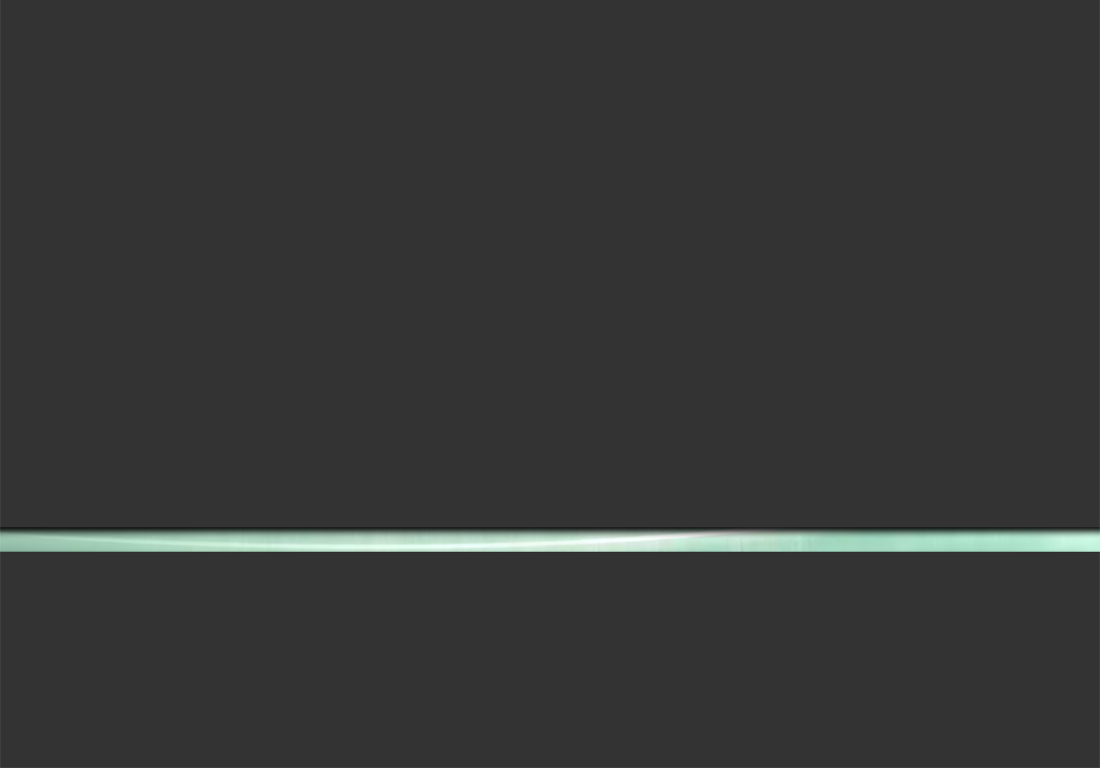
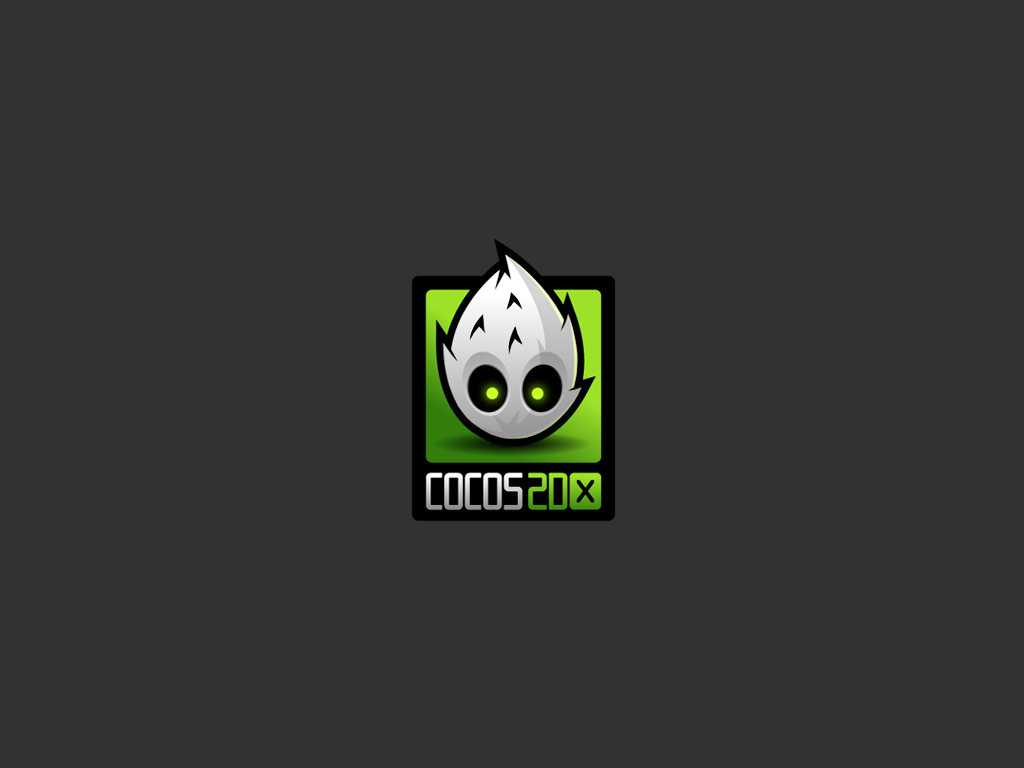
Edit loading screen

Changed region(s): [[0.0, 0.3125, 1.0, 0.7188]]

diff --git a/cocos2d/core/CCLoader.js b/cocos2d/core/CCLoader.js
@@ -261,9 +261,10 @@ cc.Loader = cc.Class.extend(/** @lends cc.Loader# */{
     },
 
     _updatePercent: function () {
-        var percent = this.getPercentage();
+        //var percent = this.getPercentage();
 
-        if (percent >= 100) {
+        //if (percent >= 100) {
+        if( _fakePercent >=100 ) {
             this._unschedulePreload();
             this._complete();
         }
@@ -420,8 +421,7 @@ cc.LoaderScene = cc.Scene.extend(/** @lends cc.LoaderScene# */{
 
         //logo
         var logoWidth = 225;
-        var logoHeight = 584;
-        var gameScale = 0.5;
+        var logoHeight = 292;
         var centerPos = cc.p(this._winSize.width / 2, this._winSize.height / 2);
 
         this._logoTexture = new Image();
@@ -432,29 +432,50 @@ cc.LoaderScene = cc.Scene.extend(/** @lends cc.LoaderScene# */{
         });
[1 lines of base64/hex data omitted]
         this._logoTexture.src = "images/loadingBG.png";
-        this._logoTexture.width = 1025;
+        this._logoTexture.width = 1024;
         this._logoTexture.height = 768;        // bg
-        this._bgLayer = cc.LayerColor.create(cc.c4(230, 230, 230, 255));
+        this._bgLayer = cc.LayerColor.create(cc.c4(255, 255, 255, 255));
         this._bgLayer.setPosition(0, 0);
-        this.addChild(this._bgLayer, 0);
+        this.addChild(this._bgLayer, 10);
         //loading
-        this._loadingGauge = new ImageShow( "loadingGauge.png" );
-        this._loadingGauge.setScaleX( 0 );
-        this._loadingGauge.setAnchorPoint( 0,0.5 );
-        this._loadingGauge.setPosition(cc.pAdd(centerPos, cc.p(-this._logoTexture.width/2, -logoHeight*gameScale / 2 - 10)));
-        this._bgLayer.addChild(this._loadingGauge,2);
-
-        this._loadingLogo = new ImageShow( "loading.png" );
-        this._loadingLogo.setScale( gameScale );
-        this._loadingLogo.setPosition(cc.pAdd(centerPos, cc.p(0,100)));
-        this._bgLayer.addChild(this._loadingLogo,12);
-
+        this.initWaterGauge();
 
         //loading percent
-        this._label = cc.LabelTTF.create("0%", "Arial", 14);
-        this._label.setColor(cc.c3(100, 100, 100));
-        this._label.setPosition(cc.pAdd(centerPos, cc.p(0, -logoHeight*gameScale / 2 - 12)));
-        this._bgLayer.addChild(this._label, 10);
+        this._label = cc.LabelTTF.create("Loading... 0%", "Arial", 14);
+        this._label.setColor(cc.c3(200, 200, 200));
+        this._label.setPosition(cc.pAdd(centerPos, cc.p(0,-logoHeight/2-20 )));
+        
+        this._bgLayer.addChild(this._label, 12);
+    },
+    initWaterGauge: function() {
+        var centerPos = cc.p(this._winSize.width / 2, this._winSize.height / 2);
+        this._loadingGauge1 = new ImageShow( "loadingGauge.png" );
+        this._loadingGauge1.setAnchorPoint( 0.5,1 );
+        this._loadingGauge1.setPosition(cc.pAdd(centerPos, cc.p(0,-60)));
+        this._bgLayer.addChild(this._loadingGauge1,2);
+
+        this._loadingGauge2 = new ImageShow( "loadingGauge.png" );
+        this._loadingGauge2.setAnchorPoint( 0.5,1 );
+        this._loadingGauge2.setPosition(cc.pAdd(centerPos, cc.p(0,-55)));
+        this._bgLayer.addChild(this._loadingGauge2,2);
+        this.waterGaugeRunAnimate();
+    },
+    waterGaugeRunAnimate: function() {
+        this.gauge1Speed = 3;
+        this.gauge2Speed = -this.gauge1Speed;
+        this.schedule( this.updateGauge,0 );
+    },
+    updateGauge: function() {
+        this._loadingGauge1.setPositionX( this._loadingGauge1.getPositionX()+this.gauge1Speed );
+        this._loadingGauge2.setPositionX( this._loadingGauge2.getPositionX()+this.gauge2Speed );
+        if( this._loadingGauge1.getPositionX() > this._winSize.width/2+10 )
+            this.gauge1Speed = -3;
+        else if( this._loadingGauge1.getPositionX() < this._winSize.width/2-10 )
+            this.gauge1Speed = 3;
+        if( this._loadingGauge2.getPositionX() > this._winSize.width/2+10 )
+            this.gauge2Speed = -3;
+        else if( this._loadingGauge2.getPositionX() < this._winSize.width/2-10 )
+            this.gauge2Speed = 3;
     },
 
     _initStage: function (centerPos) {
@@ -474,7 +495,7 @@ cc.LoaderScene = cc.Scene.extend(/** @lends cc.LoaderScene# */{
 
     onExit: function () {
         cc.Node.prototype.onExit.call(this);
-        var tmpStr = "0%";
+        var tmpStr = "Loading... 0%";
         this._label.setString(tmpStr);
     },
 
@@ -493,19 +514,23 @@ cc.LoaderScene = cc.Scene.extend(/** @lends cc.LoaderScene# */{
     _startLoading: function () {
         this.unschedule(this._startLoading);
         cc.Loader.preload(this.resources, this.selector, this.target);
-        this.schedule(this._updatePercent);
+        _fakePercent = 0;
+        this.schedule(this._updatePercent,0.017);
     },
 
     _updatePercent: function () {
-        this._loadingLogo.setRotation( this._loadingLogo.getRotation()-5 );
         var percent = cc.Loader.getInstance().getPercentage();
-        var tmpStr = percent + "%";
-
-        this._loadingGauge.setScaleX( percent/100 );
+        if( _fakePercent<percent )
+            _fakePercent++;
+        var tmpStr = "Loading... "+_fakePercent + "%";
         this._label.setString(tmpStr);
-
-        if (percent >= 100)
+        var startYwaterGauge = this._winSize.height/2-60;
+        this._loadingGauge1.setPositionY( startYwaterGauge+1.8*_fakePercent );
+        this._loadingGauge2.setPositionY( 5+startYwaterGauge+1.8*_fakePercent );
+        if ( _fakePercent >= 100) {
+            this.unschedule( this.updateGauge );
             this.unschedule(this._updatePercent);
+        }
     }
 });
 
